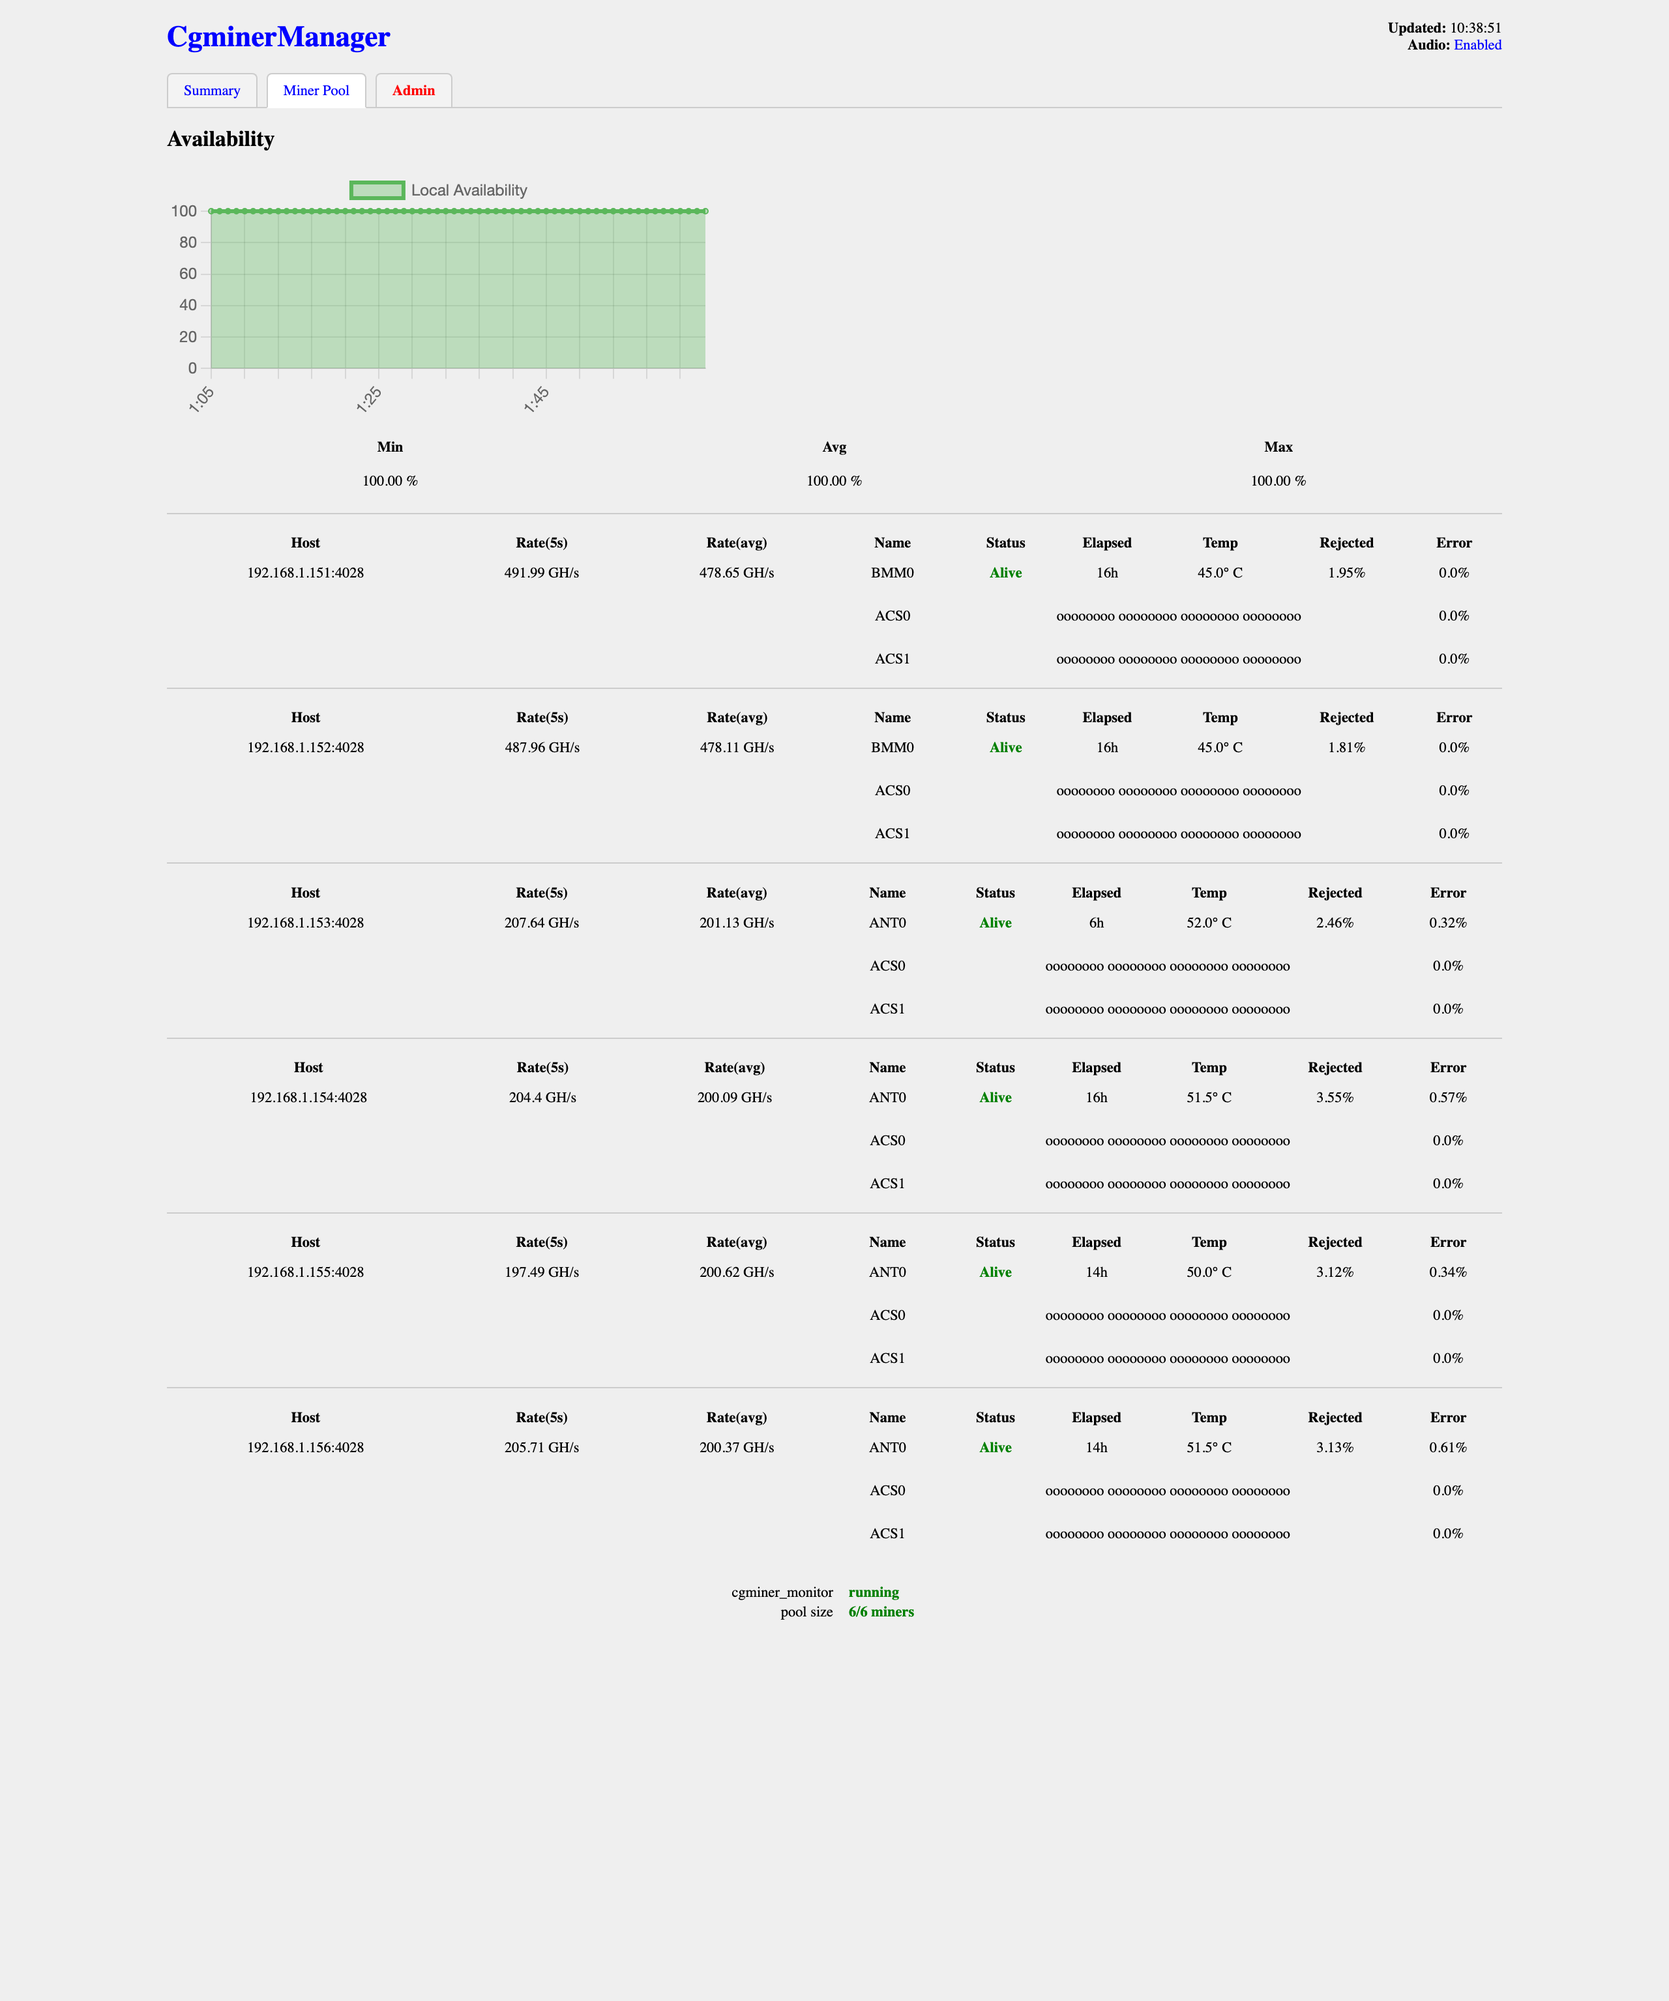
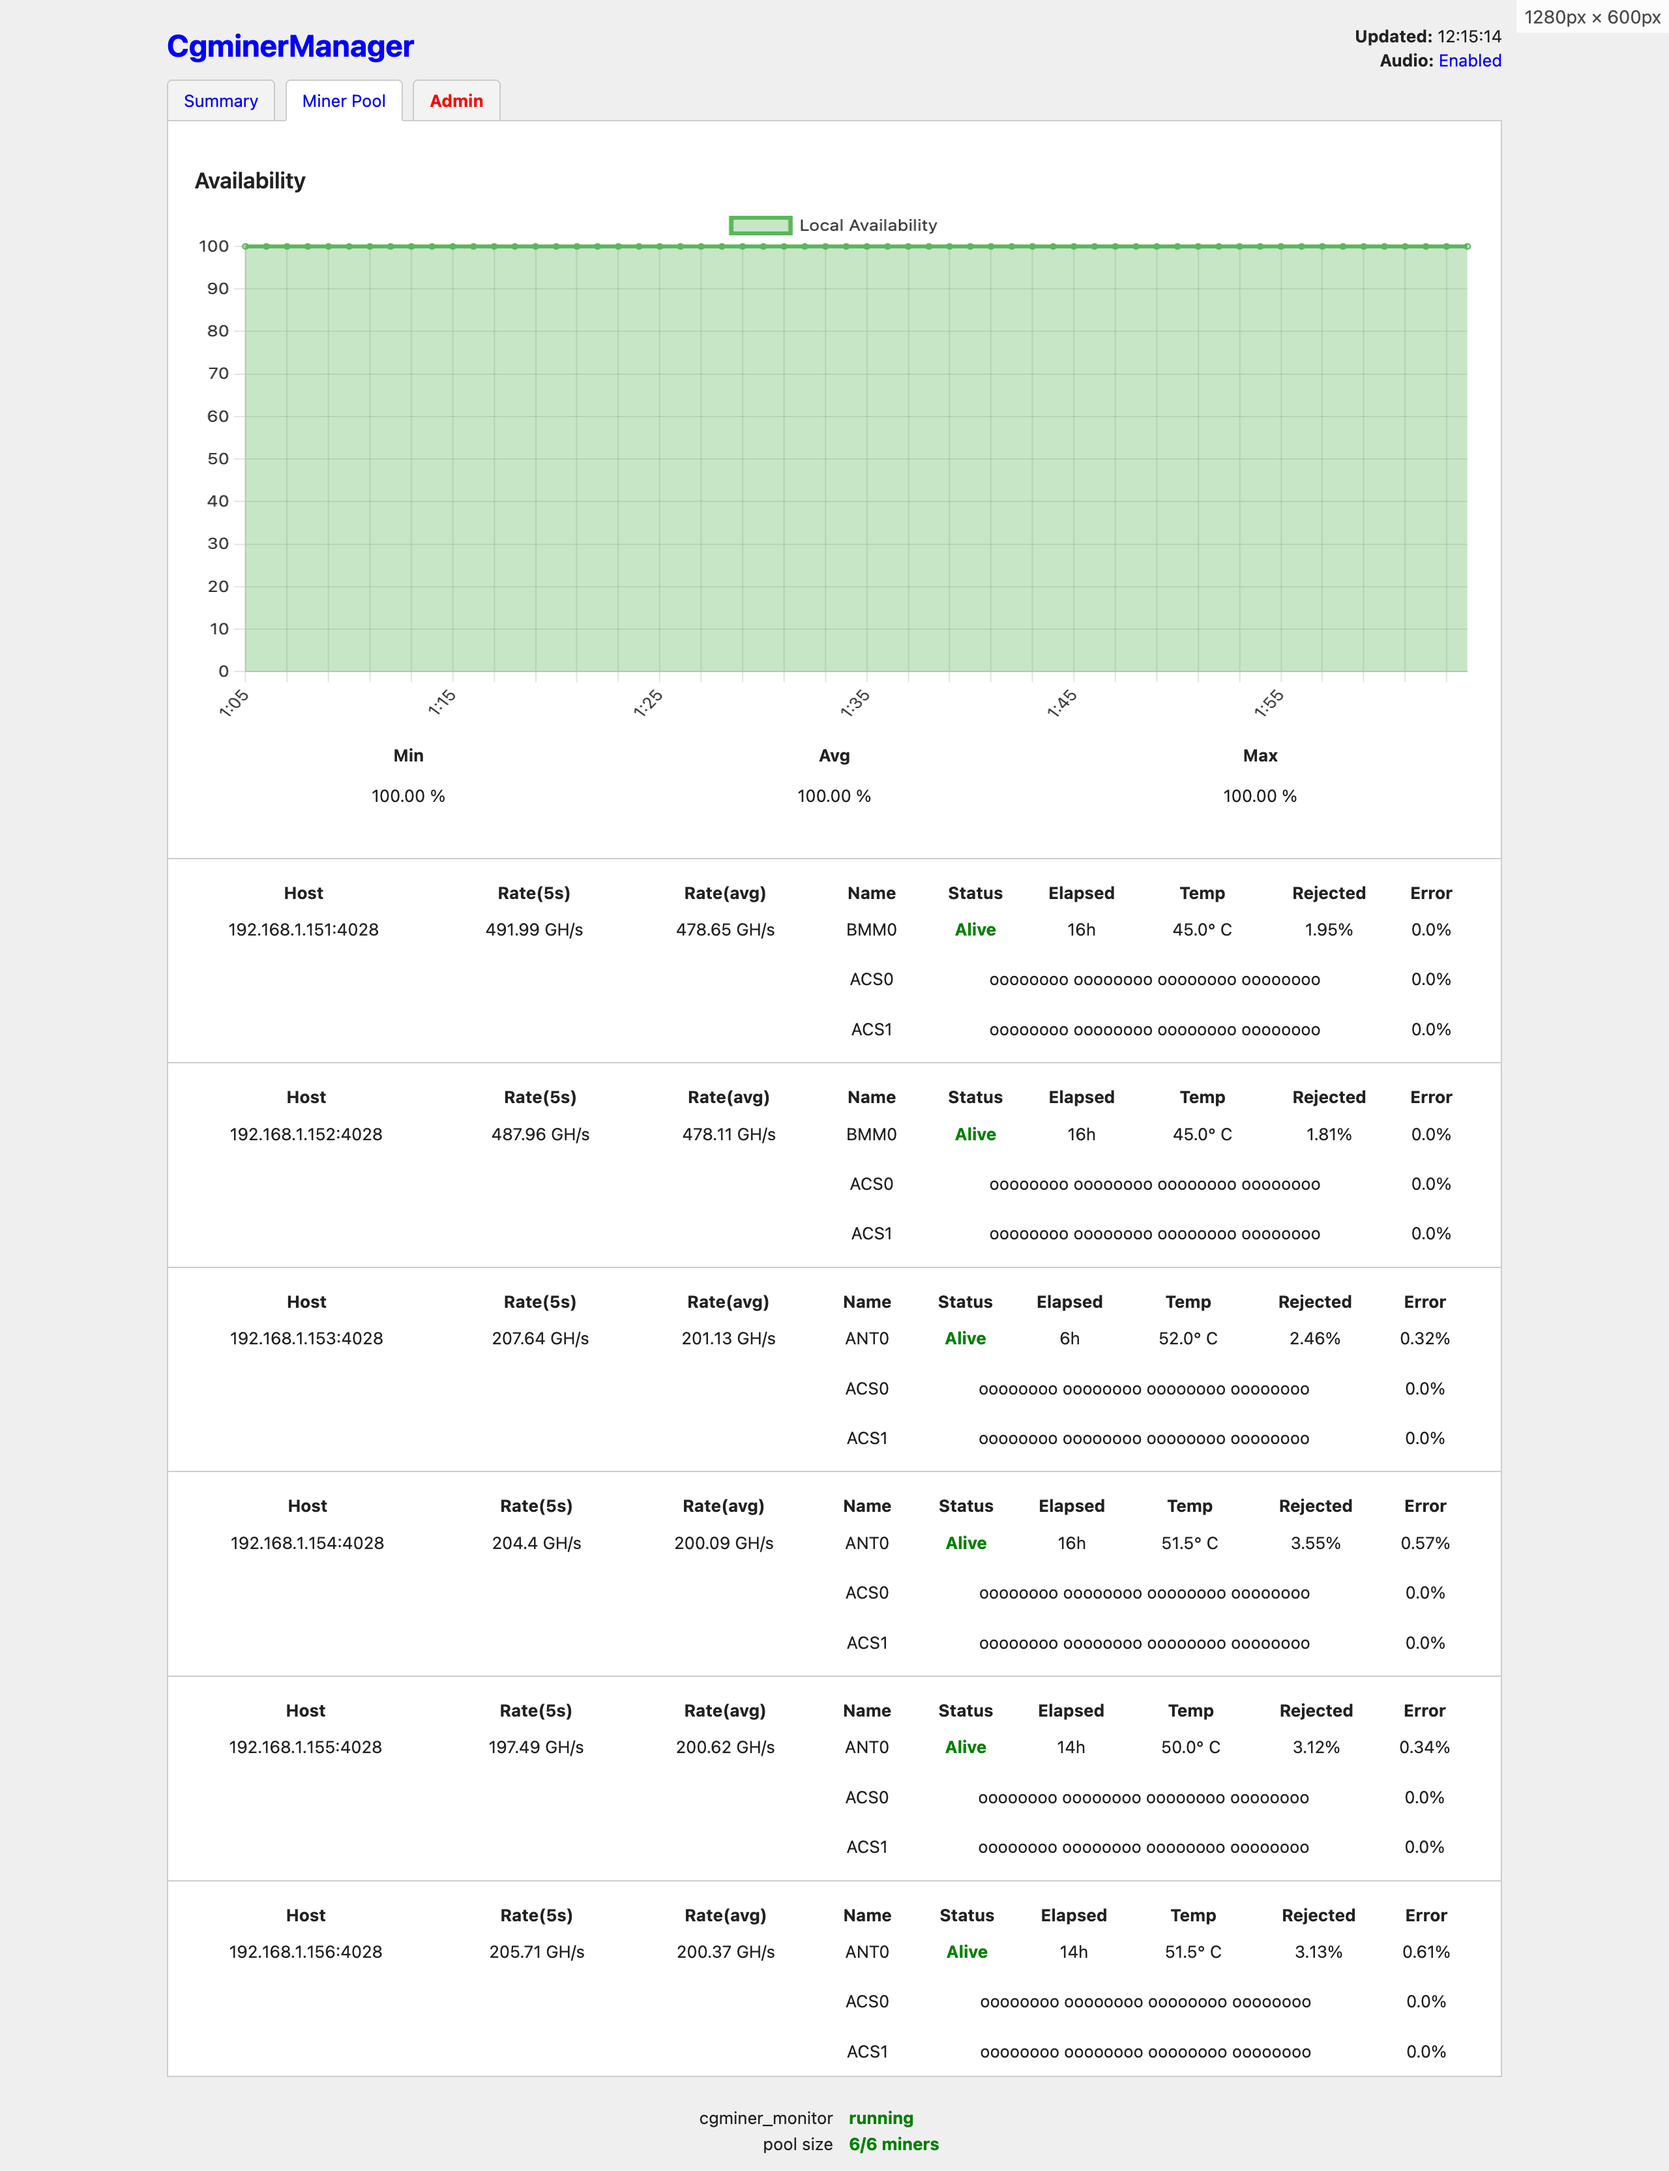
Document the jQuery purge, Chart.js v4 upgrade, and admin styling
Roll up the 11 commits on develop (ddd5574..d6071fc) into a single
CHANGELOG entry under [Unreleased] covering the payload drop,
Chart.js major upgrade, vanilla tab replacement, temperature
range-band fill, and horizontal admin button row.

diff --git a/public/css/base.css b/public/css/base.css
@@ -1,7 +1,23 @@
 body {
-  font-size: 0.7em;
+  font-family: -apple-system, BlinkMacSystemFont, "Segoe UI", Roboto, "Helvetica Neue", Arial, sans-serif;
+  font-size: 13px;
+  line-height: 1.4;
   background: #efefef;
+  color: #222;
 }
+
+h1, h2, h3 {
+  font-family: inherit;
+  font-weight: 600;
+  color: #222;
+  margin: 0.8em 0 0.4em;
+}
+
+h1 { font-size: 1.8em; font-weight: 700; }
+h2 { font-size: 1.3em; }
+h3 { font-size: 1.05em; letter-spacing: 0.02em; }
+
+.muted { color: #888; }
 
 a {
   color: blue !important;
@@ -11,10 +27,12 @@ a {
 
 .text-left {
   text-align: left;
+  padding-left: 20px;
 }
 
 .text-right {
   text-align: right;
+  padding-right: 20px;
 }
 
 .text-center {
@@ -27,15 +45,16 @@ table {
 }
 
 table tr:hover {
-  background: #efefef;
+  background: #f5f5f5;
 }
 
 .clickable-container {
   cursor: pointer;
+  padding-right: 20px;
 }
 
 .clickable-container:hover {
-  background: #efefef;
+  background: #f5f5f5;
 }
 
 td {
@@ -122,14 +141,40 @@ label {
   margin: 0 auto;
 }
 
-/* Canvases declare fixed pixel width/height so they size correctly
- * before Chart.js runs. On the dashboard they sit inside a tab panel
- * whose padding + borders narrow the usable width below the 864px
- * canvas base, so the canvas would otherwise bleed past the panel's
- * right edge. Clamping to 100% of the parent stops the overflow. */
+/* Chart.js runs with responsive: false, so each canvas has a fixed
+ * pixel resolution (864 × 400 on the dashboard, 850 × 400 on miner
+ * detail). CSS stretches the canvas to 100% of its container so the
+ * rendering fills the full content width regardless of the pixel
+ * attribute. The browser scales the rendered content to fit. */
 canvas {
-  max-width: 100%;
+  width: 100% !important;
   height: auto;
+}
+
+#summary,
+#miner-pool,
+#admin {
+  background: white;
+}
+
+#admin {
+  padding: 20px;
+}
+
+/* Collapse the first heading's top margin so the tab strip sits flush
+ * against the panel's padding rather than the heading margin + padding. */
+#admin > :first-child {
+  margin-top: 0;
+}
+
+#hashrate-graph,
+#temperature-graph,
+#hardware-error-hashrate-graph,
+#device-rejected-hashrate-graph,
+#pool-rejected-hashrate-graph,
+#pool-stale-hashrate-graph,
+#availability-graph {
+  padding: 20px;
 }
 
 #run-command input[type=text],
@@ -186,7 +231,24 @@ hr {
 #stats > ul {
   list-style: none;
   padding: 0;
-  margin: 0 0 8px 0;
+  margin: 0;
+  border-bottom: 1px solid #ccc;
+}
+
+/* The miner detail outer-tabs sit inside #miner (white background).
+ * Reset the tab strip to the page grey so the inactive tabs blend with
+ * the surrounding chrome instead of the panel content. */
+#tabs > ul {
+  background: #efefef;
+}
+
+/* Box the active tab panel with left/right/bottom borders. The top
+ * border is already provided by the tab strip's border-bottom, so
+ * skip it here to avoid doubling up. */
+#manager-content > div,
+#tabs > div {
+  border-left: 1px solid #ccc;
+  border-right: 1px solid #ccc;
   border-bottom: 1px solid #ccc;
 }
 #manager-content > ul > li,

diff --git a/public/js/graph.js b/public/js/graph.js
@@ -1,3 +1,11 @@
+// Match chart axis/legend typography to surrounding HAML text. The font
+// stack must stay in sync with body { font-family } in public/css/base.css.
+if (typeof Chart !== 'undefined') {
+  Chart.defaults.font.family = '-apple-system, BlinkMacSystemFont, "Segoe UI", Roboto, "Helvetica Neue", Arial, sans-serif';
+  Chart.defaults.font.size   = 12;
+  Chart.defaults.color       = '#333';
+}
+
 // Chart-ready signalling. Graph partials tick window.__chartReady() once
 // each canvas has rendered (or the partial removed itself because it had
 // no data). The miner detail page's update handler calls

diff --git a/CHANGELOG.md b/CHANGELOG.md
@@ -14,6 +14,63 @@
   sibling repos.
 
 ### Changed
+- **Frontend purged of jQuery, jQuery UI, and jquery.cookie.** Drops
+  ~390 KB (~80 KB gzipped) of vendored JS and the last jQuery-family
+  dep surface. Replacements:
+  - `public/js/fetch_helpers.js` (new) — `csrfFetch` and `getJSON`
+    helpers built on native `fetch`. CSRF token is read once from
+    `<meta name="csrf-token">` and injected on non-GET requests.
+    Replaces `$.ajaxSetup`, `$.getJSON`, `$.ajax`.
+  - `public/js/tabs.js` (new, ~45 LOC) — vanilla replacement for
+    jQuery UI's `.tabs()`. Honors `window.location.hash`, fires an
+    optional `activate` callback only on user clicks (matching jQuery
+    UI's behaviour), and styles the active tab via a `.tab-active`
+    class. Dashboard outer tabs wait on `window.__chartsReadyPromise`
+    before init so the availability canvas on the Miner Pool panel
+    gets laid out at full width before the panel is hidden.
+  - `public/js/application.js` — AJAX polling, DOM updates, and the
+    `update` CustomEvent bus are all vanilla. `appendWarning` now
+    dedupes by id so repeated polls don't stack identical warning
+    divs (fixing a latent jQuery-era bug).
+  - `public/js/audio.js` — audio-toggle preference persists in
+    `localStorage` under `enable-audio` instead of a `$.cookie`.
+    Existing cookie-based preferences are not migrated.
+  - `public/js/admin.js` — form submission uses `csrfFetch` with
+    `URLSearchParams(new FormData(form))`; error body rendering is
+    DOM-constructed rather than round-tripped through escaped
+    innerHTML.
+  - `views/miner/show.haml` update handler replaces jQuery's
+    `.load()` with `fetch` + `DOMParser` + script reanimation,
+    guarded by an `AbortController` so overlapping `update` ticks
+    can't race. `@miner_url` is serialised through `.to_json` to
+    block interpolation injection.
+- **Chart.js upgraded from 1.0.1-beta.3 (2015) to 4.5.1.** All seven
+  graph partials under `views/shared/graphs/` rewrite their configs
+  to v4's `new Chart(canvas, { type, data, options })` shape and
+  call `Chart.getChart(canvas)?.destroy()` before instantiating so
+  the miner-detail `.load()`-equivalent reload path doesn't trip
+  v4's "Canvas is already in use" error. `window.__chartsReady`
+  and `window.__chartsReadyPromise` are the new vanilla replacements
+  for `jQuery.active === 0`; the screenshot harness waits on that
+  flag before capturing.
+- **Temperature graph renders as three stacked fill bands** (0..Min
+  yellow, Min..Avg orange, Avg..Max red) using Chart.js v4's
+  relative `fill: '+1'` and `fill: 'origin'` options. Each series
+  fills exactly the region between its own line and the next-lower
+  series, so the bands are disjoint and all three lines stay
+  visible on top.
+- **Other graph partials are filled areas** (hashrate, availability,
+  hardware_error, device_rejected, pool_rejected, pool_stale) with
+  semi-transparent backgrounds, matching the v1 visual with `fillColor`.
+- **Dashboard Admin tab buttons are laid out horizontally.** The
+  `.admin-button-row` class gets `display: flex` with 8 px gap so
+  the Status queries (Version/Stats/Devs) and Fleet operations
+  (Zero/Save/Restart/Quit) groups render as one row each instead
+  of stacking vertically.
+- **Screenshots regenerated.** `public/screenshots/summary.png`,
+  `miner-pool.png`, `miner.png`, and `admin.png` all reflect the
+  new vanilla tab CSS, Chart.js v4 visuals, the stacked-band
+  temperature fill, and the horizontal admin button rows.
 - **Session cookie is now `Secure` in production.** `Rack::Session::Cookie`
   gets `secure: true` when `Config#production?`, gated so dev/test on
   `http://127.0.0.1` keeps working. Complements the README's reverse-
